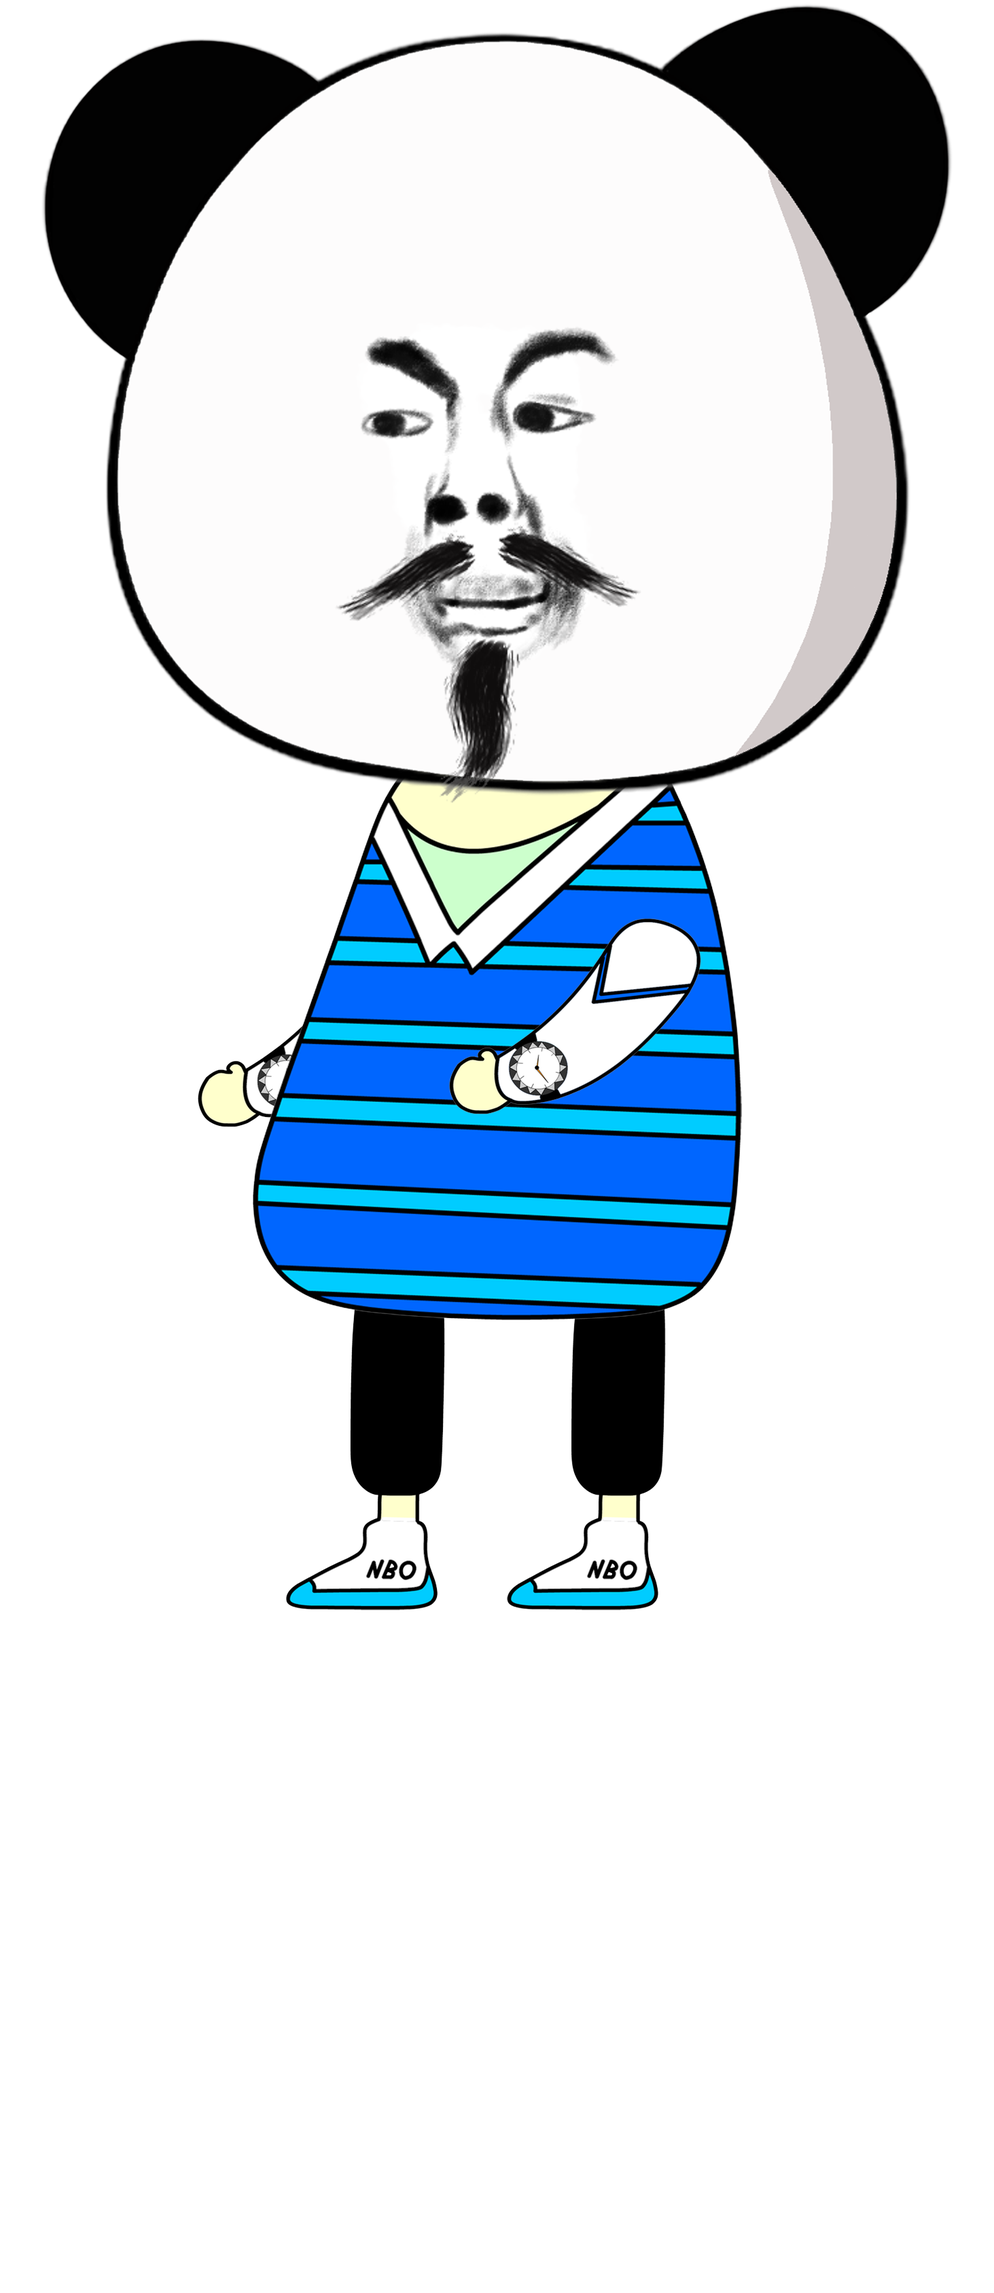
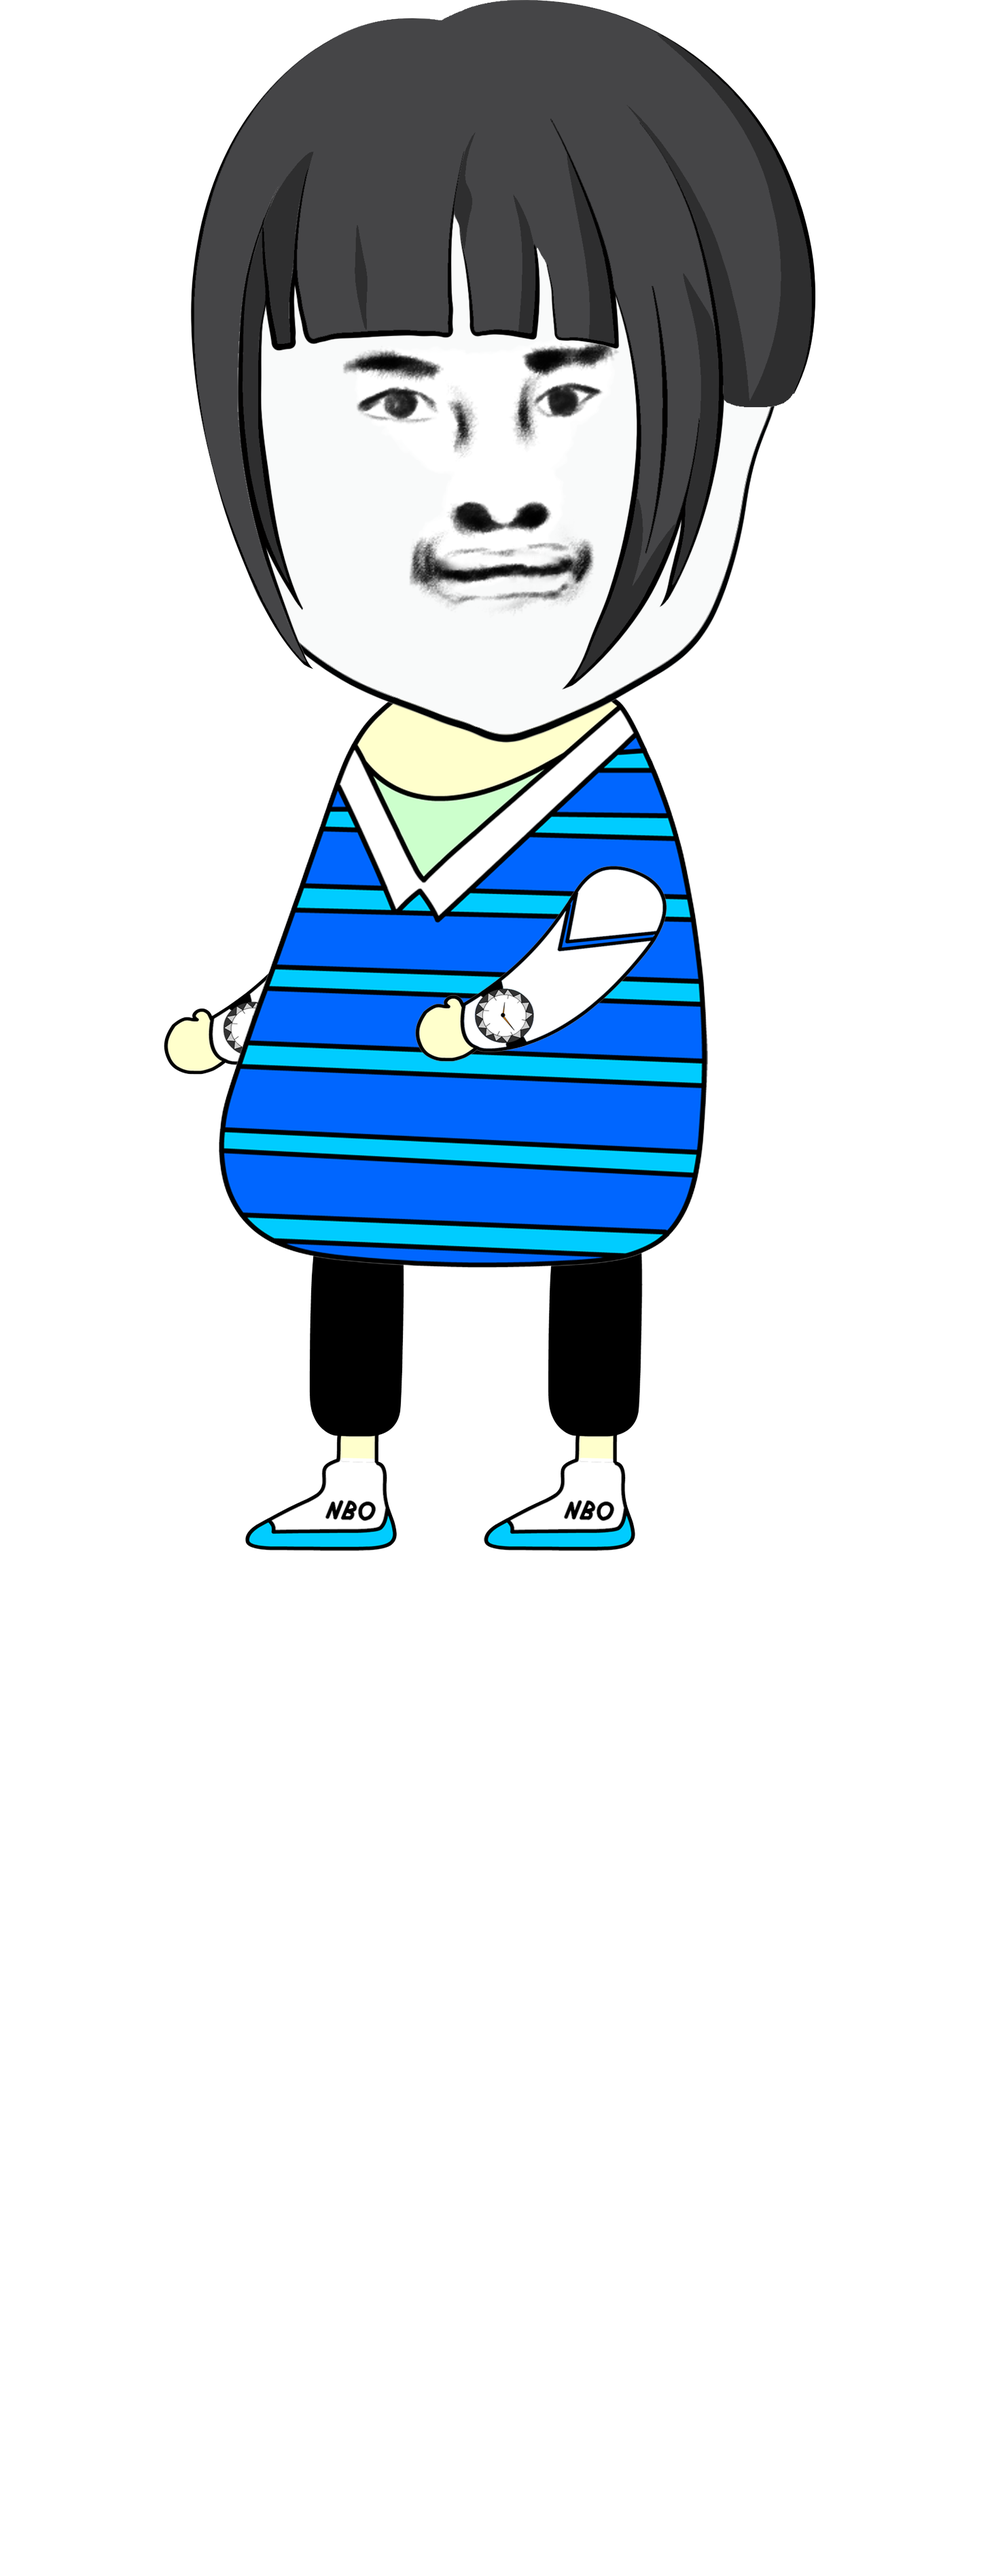
头发佩戴正常

Changed region(s): [[0.0308, 0.0, 0.9535, 0.7156], [0.1538, 0.28, 0.2153, 0.3111], [0.123, 0.2489, 0.1538, 0.28]]

diff --git a/main.py b/main.py
@@ -92,17 +92,33 @@ def result_man_width_height(images):
 # images = get_selected_img()
 # man_width, man_height = result_man_width_height(images)
 
-def hair_pos(images):   # pil 坐标的原点在 左上角
-    hair_x, hair_y = head_left_top_pos(images)
-
-    return hair_x, hair_y
-
+HEAD_SHIFT_DOWN = 30 # 头下余，预留位置给头发
+HAIR_LARGER_THAN_HEAD = 0.06 # 头发比头大 10%
+# 先确定头的位置， 后续身体部件的位置，都是以头的位置作为参考
 def head_left_top_pos(images):       # pil 坐标的原点在 左上角
     # head_top_center = left_hand.width + body.width/2
     head_top_center = images["left_hand"].size[0] + images["body"].size[0] // 2
     head_left_top_x = head_top_center - images["head"].size[0] // 2
-    head_left_top_y = 0
+
+    
+
+    head_left_top_y = HEAD_SHIFT_DOWN
     return head_left_top_x, head_left_top_y
+
+
+def resize_hair(images):
+    hair_widge = images["hair"].size[0]
+    head_widge = images["head"].size[0]
+    return resize_img(images["hair"], factor = head_widge/hair_widge + HAIR_LARGER_THAN_HEAD )
+
+def hair_top_pos(images):   # pil 坐标的原点在 左上角
+    hair_x, hair_y = head_left_top_pos(images)
+
+    HAIR_LEFT_SHIFT_THAN_HEAD = HAIR_LARGER_THAN_HEAD/2 # 头发起始位置比头的位置往左偏移一点
+
+    hair_x = hair_x - round(images["head"].size[0] * HAIR_LEFT_SHIFT_THAN_HEAD)
+    hair_y = hair_y - HEAD_SHIFT_DOWN
+    return hair_x, hair_y
 
 def expression_left_top_pos(images):  # pil 坐标的原点在 左上角
     head_x, head_y = head_left_top_pos(images)
@@ -136,7 +152,9 @@ def body_left_top_pos(images):  # pil 坐标的原点在 左上角
     head_width, head_height = images["head"].size
     head_center_x, head_center_y = (head_x + head_width//2, head_y + head_height // 2)
 
-    body_left_top_x = head_center_x - images["body"].size[0] // 2
+    BODY_LEFT_SHIFT = 50
+
+    body_left_top_x = head_center_x - images["body"].size[0] // 2 - BODY_LEFT_SHIFT
     body_left_top_y = head_center_y + head_height // 2
 
     BODY_INTO_HEAD = 120   # 头要压在脖子上面
@@ -145,10 +163,10 @@ def body_left_top_pos(images):  # pil 坐标的原点在 左上角
 def left_hand_top_pos(images):
     body_x, body_y = body_left_top_pos(images)
 
-    LEFT_HAND_INTO_BODY_X = -80   # 100
+    LEFT_HAND_INTO_BODY_X = 80   # 100
     LEFT_HAND_INTO_BODY_Y = 320    # 300
 
-    left_hand_x = body_x + LEFT_HAND_INTO_BODY_X
+    left_hand_x = body_x - LEFT_HAND_INTO_BODY_X
     left_hand_y = body_y + LEFT_HAND_INTO_BODY_Y
     return left_hand_x, left_hand_y
 
@@ -167,8 +185,8 @@ def right_hand_top_pos(images):
 def left_leg_pos(images):
     body_x, body_y = body_left_top_pos(images)
 
-    LEFT_LEG_INTO_BODY_X = 50
-    LEFT_LEG_INTO_BODY_Y = 100
+    LEFT_LEG_INTO_BODY_X = 40
+    LEFT_LEG_INTO_BODY_Y = 110
 
     left_leg_x = body_x + LEFT_LEG_INTO_BODY_X
     left_leg_y = body_y + images["body"].size[1] - LEFT_LEG_INTO_BODY_Y
@@ -177,10 +195,10 @@ def left_leg_pos(images):
 def right_leg_pos(images):
     body_x, body_y = body_left_top_pos(images)
 
-    RIGHT_LEG_INTO_BODY_X = 300
-    RIGHT_LEG_INTO_BODY_Y = 100
+    RIGHT_LEG_INTO_BODY_X = 330
+    RIGHT_LEG_INTO_BODY_Y = 110
 
-    right_leg_x = body_x + images["head"].size[0]//2 - RIGHT_LEG_INTO_BODY_X
+    right_leg_x = body_x + images["body"].size[0] - RIGHT_LEG_INTO_BODY_X
     right_leg_y = body_y + images["body"].size[1] - RIGHT_LEG_INTO_BODY_Y
     return right_leg_x, right_leg_y
 
@@ -213,7 +231,7 @@ def merge_man(images):   # pil 坐标的原点在 左上角
     result_image.paste(resize_img(images['expression']), expression_left_top_pos_enlarge(images), mask=resize_img(images['expression']))  # 表情
 
 
-    # result_image.paste(images['hair'], head_left_top_pos(images), mask=images['hair'])  # 头发
+    result_image.paste(resize_hair(images), hair_top_pos(images), mask=resize_hair(images))  # 头发
 
     result_image.paste(images['right_hand'], right_hand_top_pos(images), mask=images['right_hand'])  # 右手
 

diff --git a/test.py b/test.py
@@ -183,13 +183,13 @@ def test_paste():
 # test_paste()
     
 def img_flip_left_reght():
-    images = get_selected_img()
-    img = images["right_hand"].transpose(Image.FLIP_LEFT_RIGHT)
-    img.save("rhand.png")
+    file = os.path.join(os.getcwd(), "static/body_com/发型/头发 4.png")
+    img = Image.open(file).transpose(Image.FLIP_LEFT_RIGHT)
+    img.save(os.path.join(os.getcwd(), "static/body_com/发型/头发 4_mirror.png"))
     img.show()
 
 
-# img_flip_left_reght()
+img_flip_left_reght()
 
 
 
@@ -211,7 +211,7 @@ def sorted_file():
 
 # sorted_file()
         
-def resize_img():
+def resize_img(img, factor = 1):
     file = os.path.join(os.getcwd(), "static/test_merge_img/普通表情_15.png")
     with Image.open(file) as im:
         # Provide the target width and height of the image
@@ -220,4 +220,4 @@ def resize_img():
         im_resized.show()
         im.show()
 
-resize_img()
+# resize_img()
